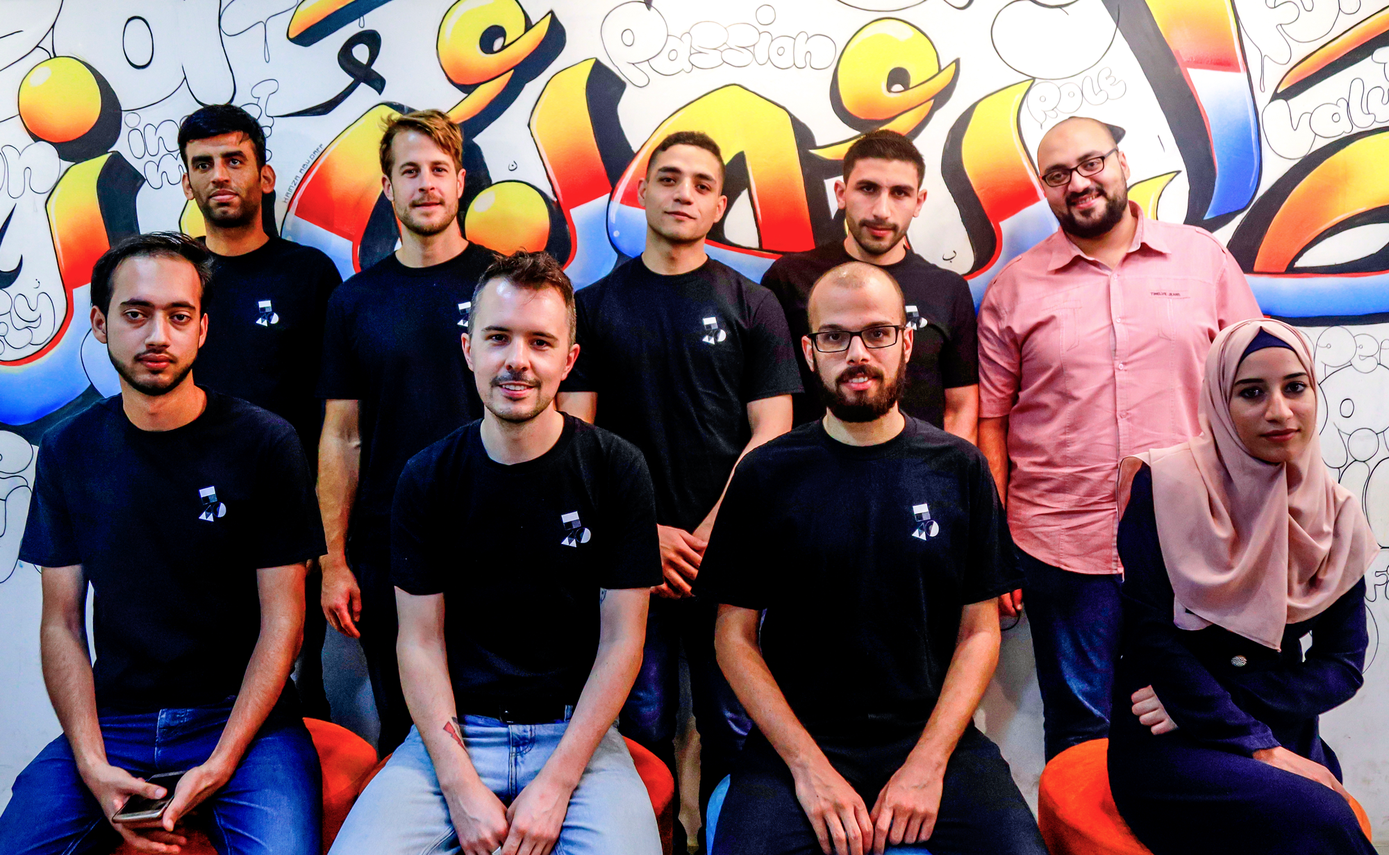
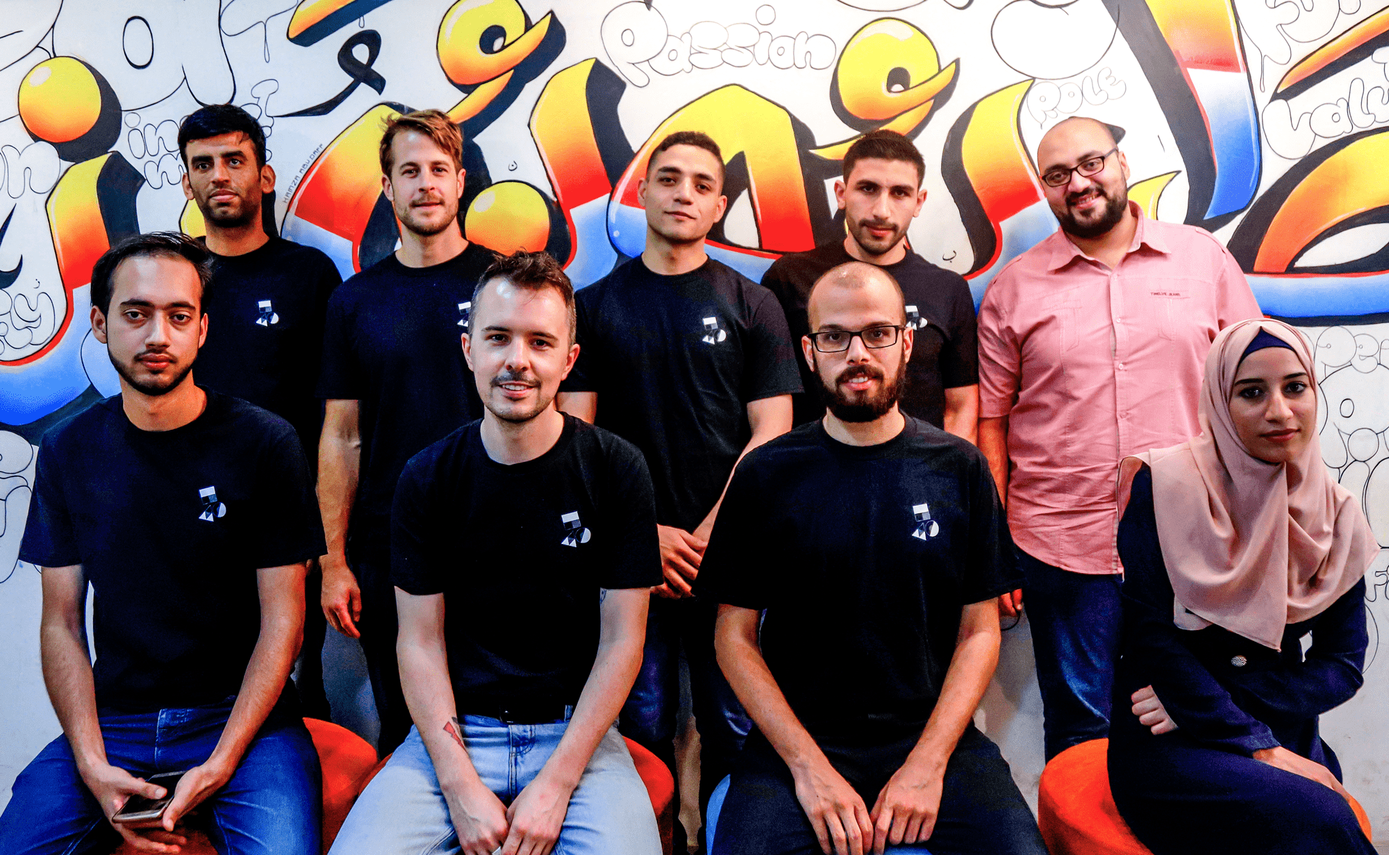
style: reduce image size

Changed region(s): [[0.0, 0.463, 0.062, 0.4939], [0.496, 0.9261, 0.527, 0.9569], [0.341, 0.247, 0.372, 0.2778]]

diff --git a/src/pages/presspad.js b/src/pages/presspad.js
@@ -21,7 +21,7 @@ import { WhereWeCameInSection, WhatWeDeliveredSection } from '../styles/earwig'
 
 import { Context, WhereItAllStartedSection } from '../styles/presspad'
 
-const EarwigCaseStudy = () => {
+const PressPadCaseStudy = () => {
   const { image } = useStaticQuery(graphql`
     query {
       image: file(relativePath: { eq: "presspad-header.png" }) {
@@ -37,7 +37,7 @@ const EarwigCaseStudy = () => {
 
   return (
     <Layout>
-      <SEO title="Earwig Case Study" />
+      <SEO title="PressPad Case Study" />
       <header>
         <ImageBackground tag="section" fluid={image.sharp.fluid}>
           <NavBar menuColor="white" logoColor="white" />
@@ -88,7 +88,7 @@ const EarwigCaseStudy = () => {
         <WhereWeCameInSection style={{ paddingTop: 0 }}>
           <Image
             fileName="presspad-figma"
-            altText="earwig styles and wire frames in Figma"
+            altText="presspad styles and wire frames in Figma"
             style={{
               width: '100%',
             }}
@@ -205,4 +205,4 @@ const EarwigCaseStudy = () => {
   )
 }
 
-export default EarwigCaseStudy
+export default PressPadCaseStudy
